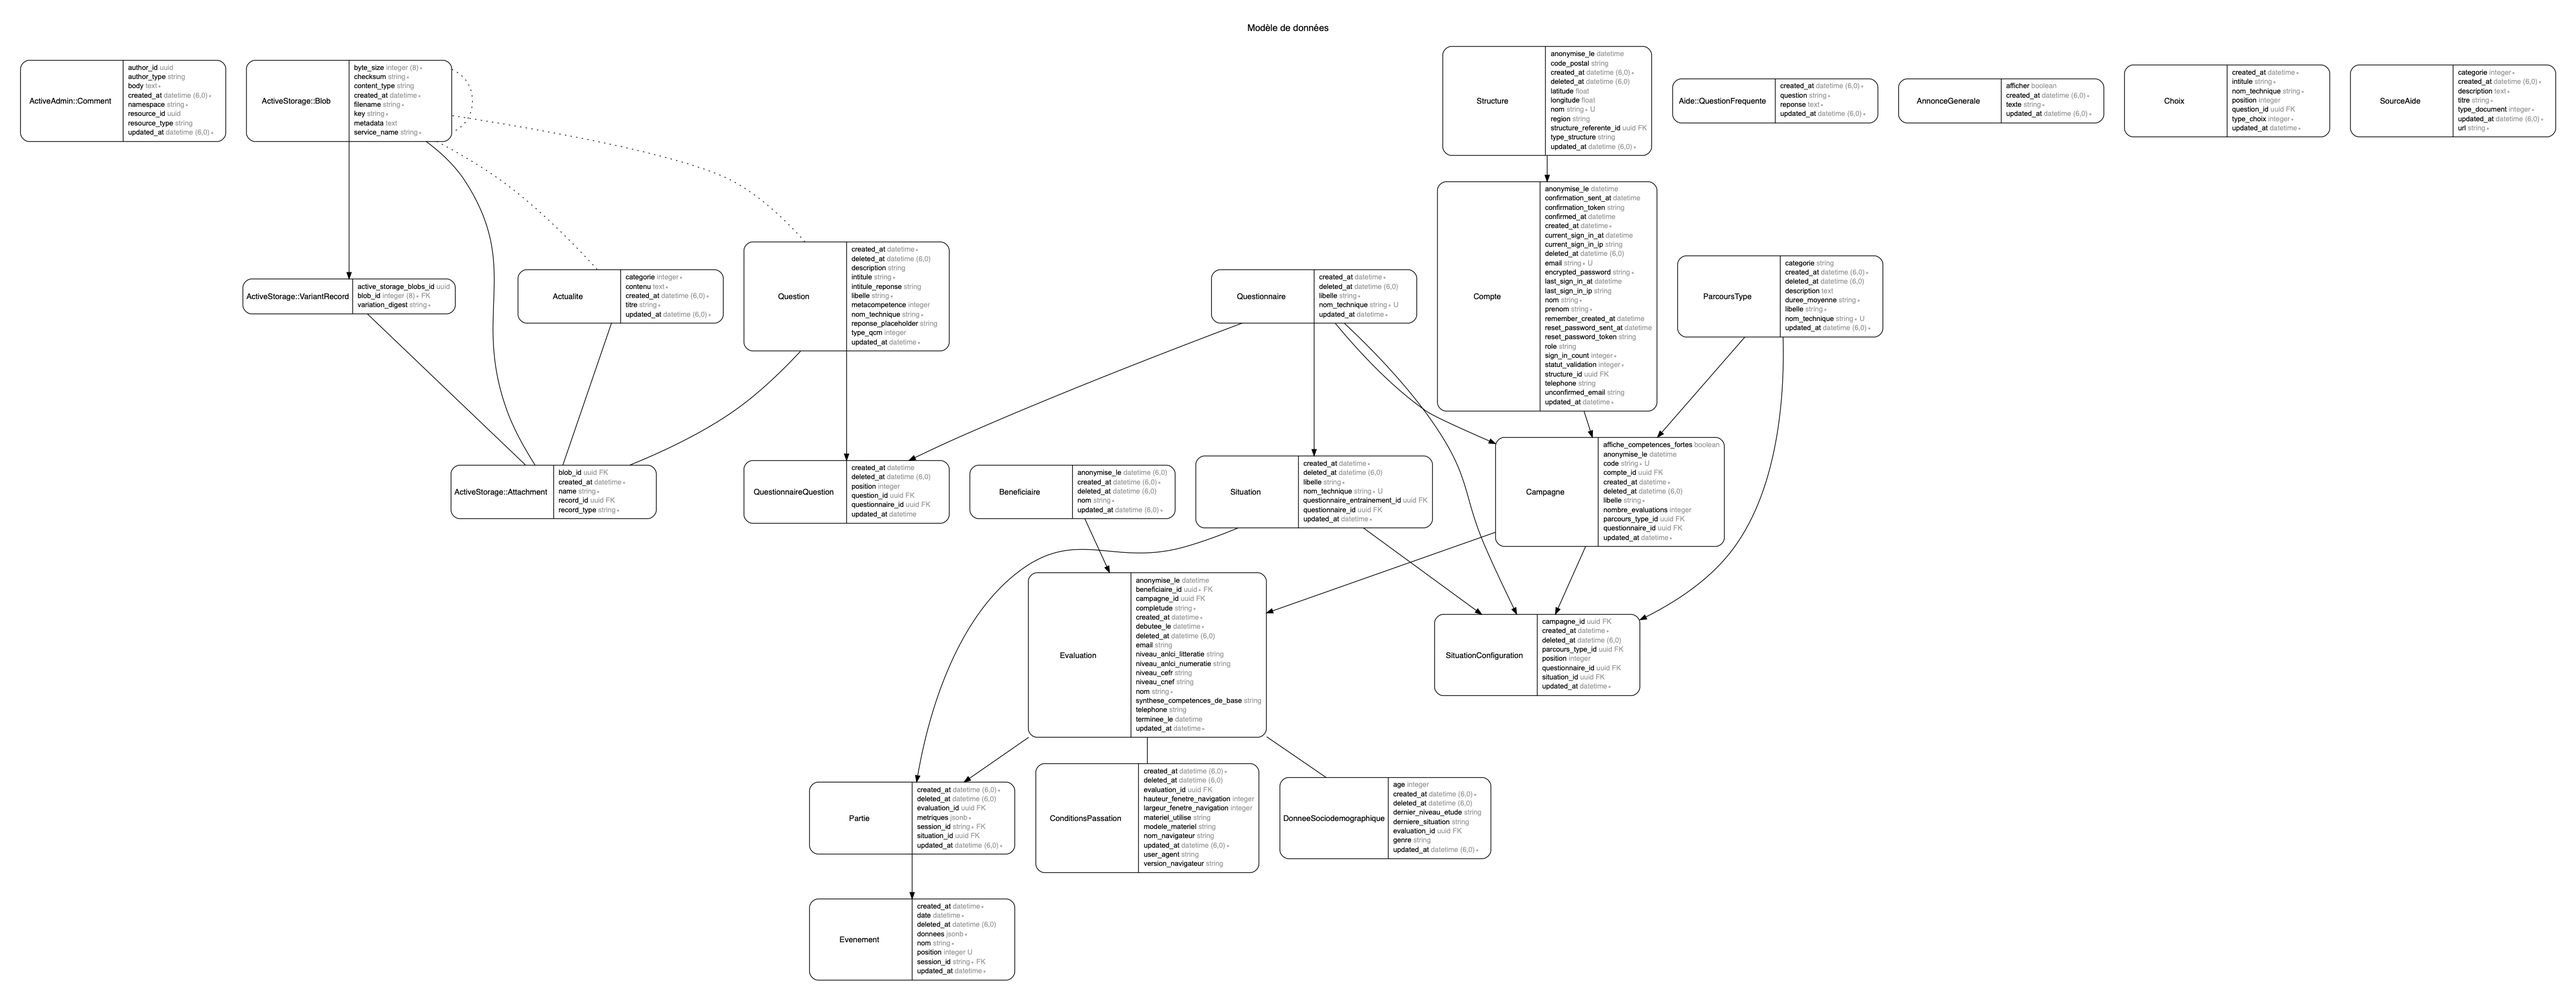
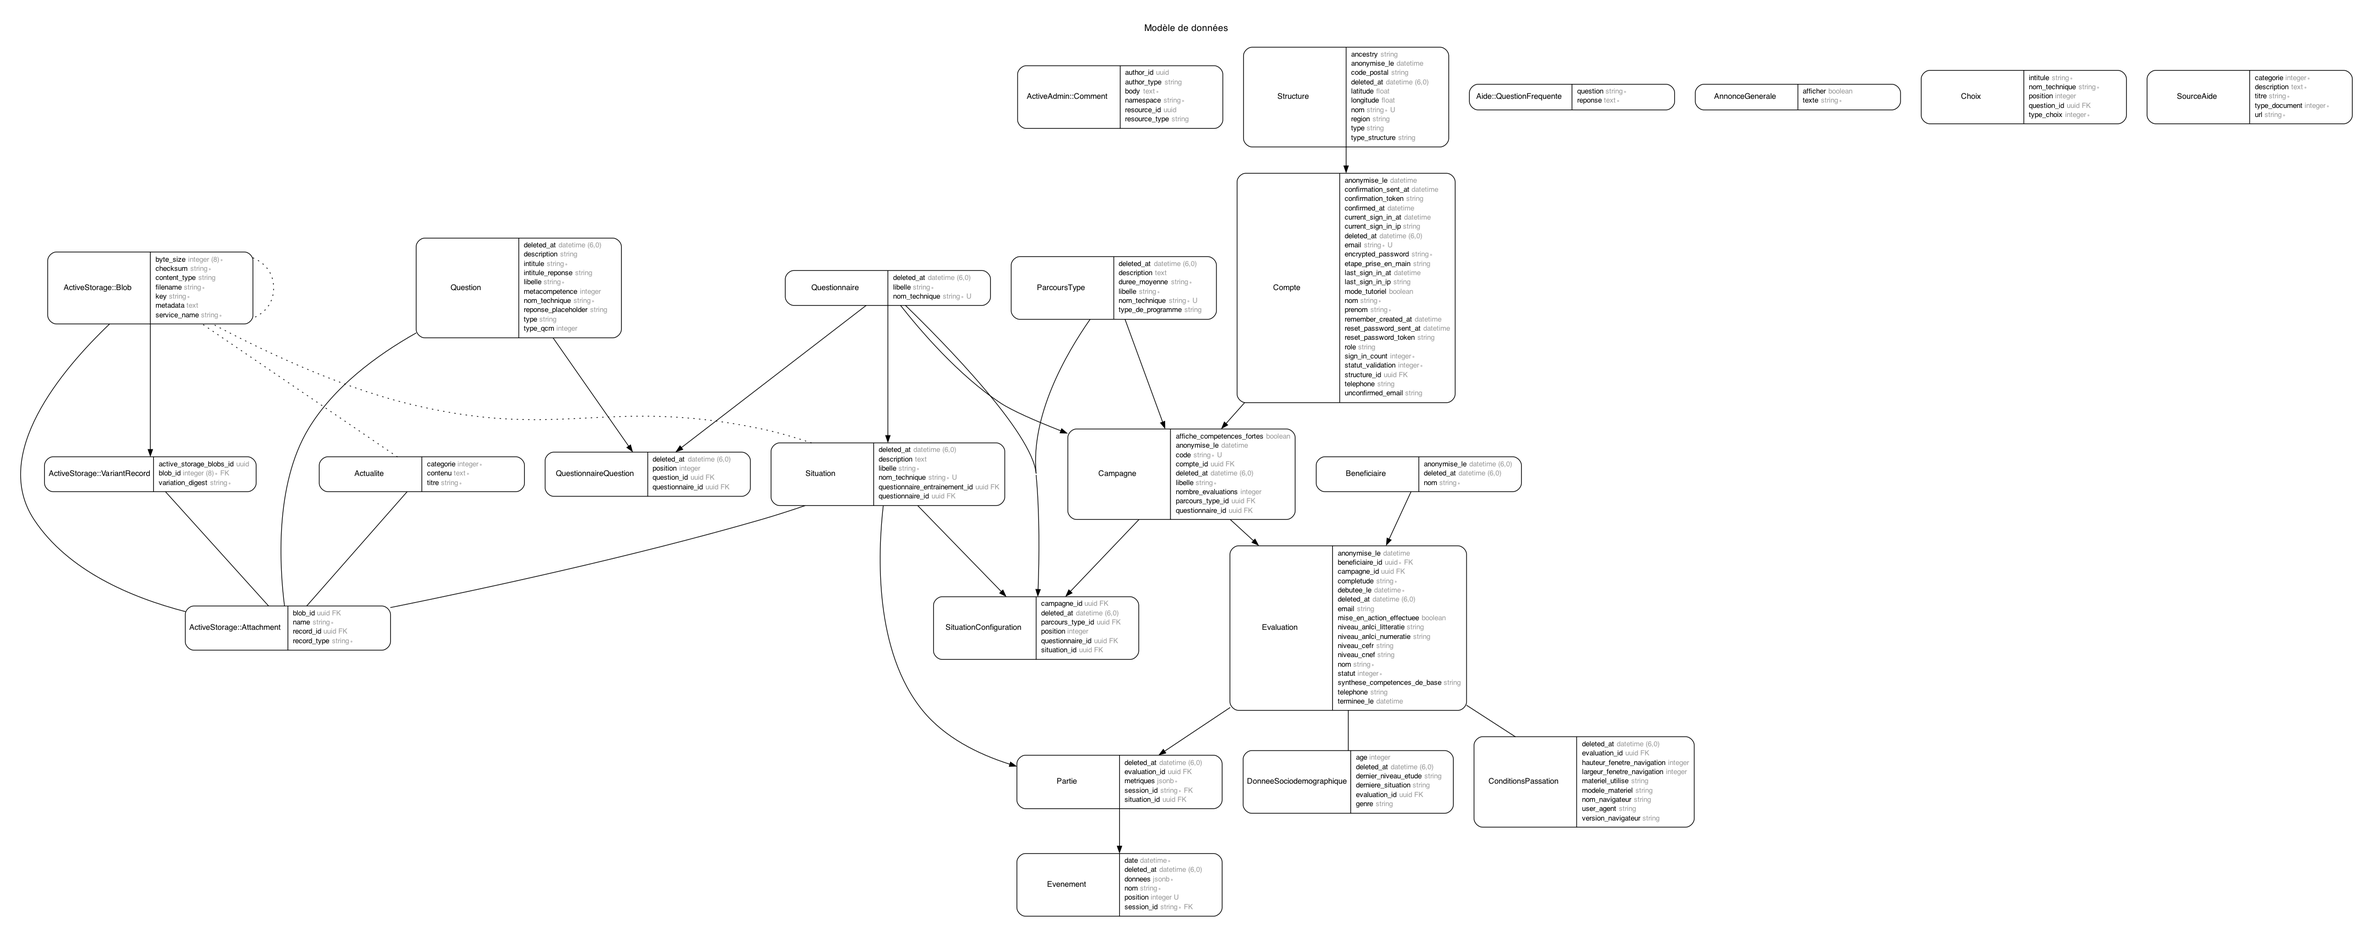
Met a jour le modèle de données

diff --git a/README.md b/README.md
@@ -256,14 +256,15 @@ Contenu:
 }
 ```
 
-## Modèle de données
+## Structure des données
+
+Un graphique de la structure de la base peut être généré afin de mieux comprendre les intérractions entre les différents modèles.
 
 ![](docs/erd.png)
 
-
 Pour générer ce graphique:
-  1. `bundle exec rake erd filetype=dot orientation=vertical attributes=foreign_keys,content,timestamps`
-  2. `dot -Tpng erd.dot -o docs/erd.png`
+
+`bundle exec rake erd`
 
 ## Licence
 
